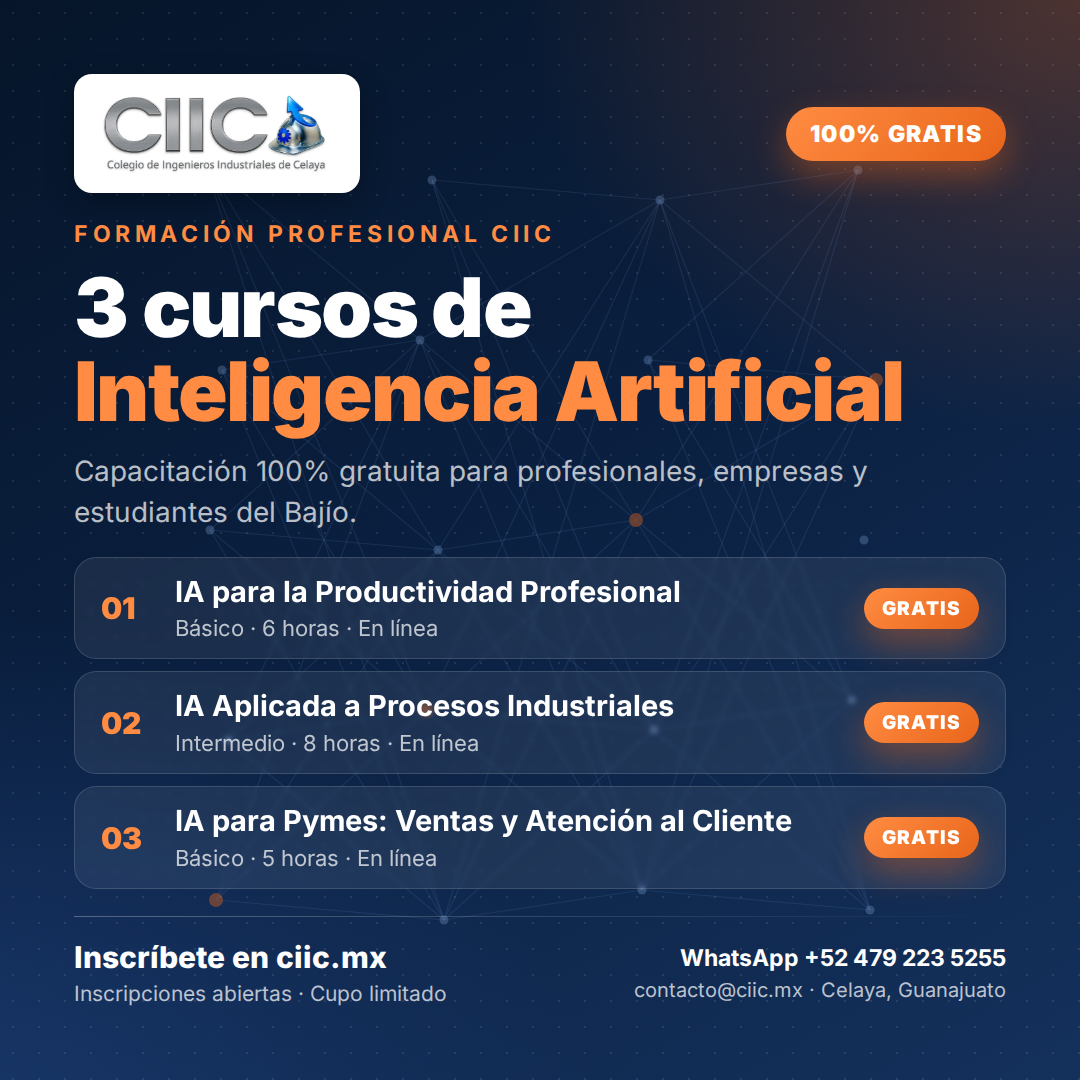
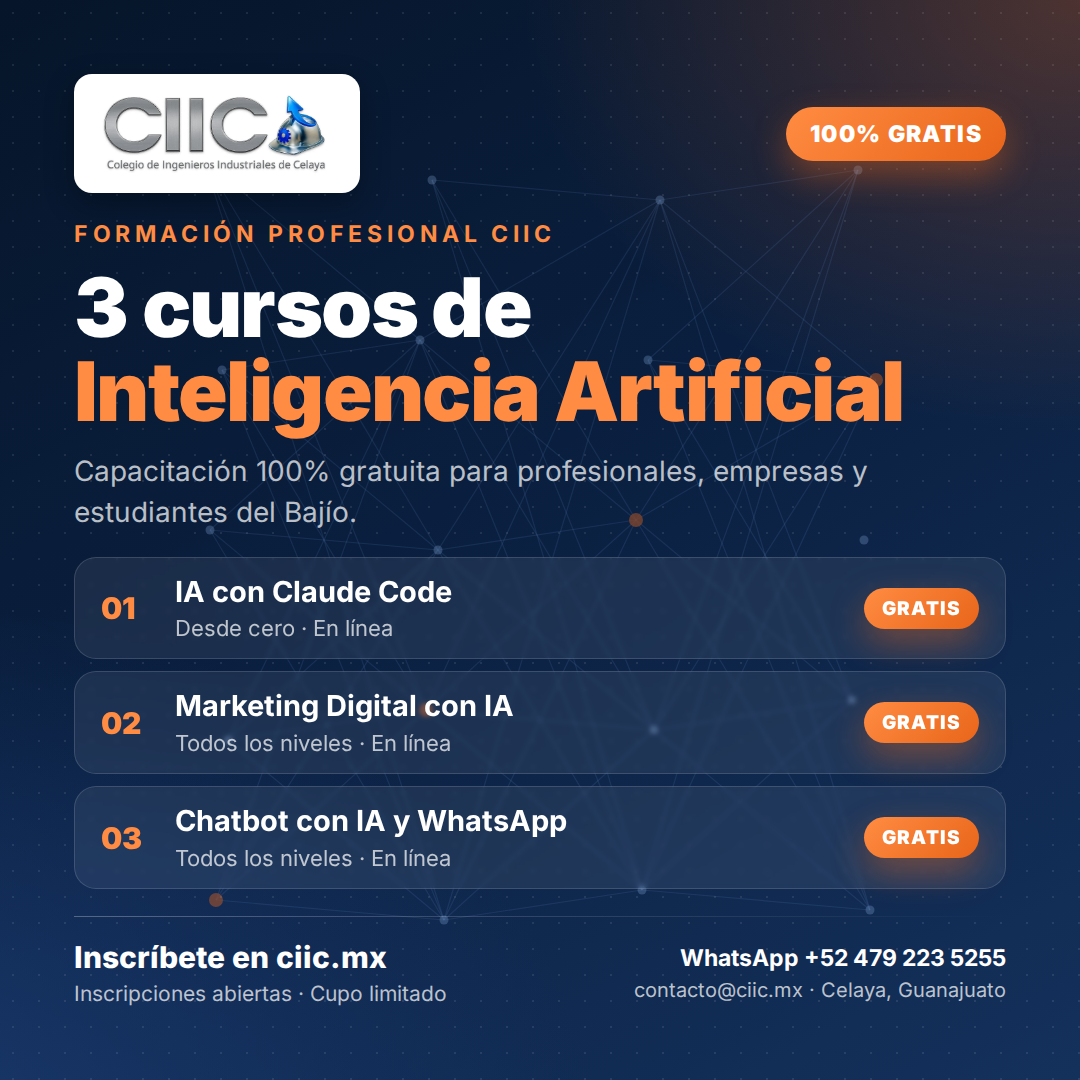
feat(promo): usar los nombres reales de los cursos y agregar prompts de video
- courses.mjs: titulos definitivos de los tres cursos gratuitos de IA, con
  titulo corto para los listados y duracion vacia mientras no este definida
- generate.mjs: omite los campos vacios en los metadatos y ajusta el cuerpo
  del titulo cuando ocupa tres lineas
- prompts-video.md: guion en cinco clips de ocho segundos para generar un
  spot con presentador realista, con bloque de personaje reutilizable,
  prompt negativo y escenarios alternativos

Claude-Session: https://claude.ai/code/session_01CBe4QPccBFTXzonB63kjgr

Changed region(s): [[0.1528, 0.7333, 0.7333, 0.825], [0.1833, 0.5194, 0.6417, 0.6111], [0.1528, 0.6417, 0.6417, 0.7028]]

diff --git a/scripts/promo/prompts-video.md b/scripts/promo/prompts-video.md
@@ -1,0 +1,197 @@
+# Prompts para el video promocional (presentador realista)
+
+Spot de ~40 segundos donde un hombre presenta los 3 cursos gratuitos de IA del
+CIIC. Está pensado para generadores con **audio y diálogo nativos** (Google Veo 3,
+Sora 2, Kling 2.5). Si tu herramienta no genera voz (Runway, Luma, Hailuo), usa
+los mismos prompts sin el bloque de diálogo y agrega la locución después.
+
+## Cómo usarlo
+
+- Los modelos generan clips de **8 segundos**. El spot son **5 clips** que se unen
+  en edición.
+- Genera en **9:16** para Reels, TikTok, Stories y estado de WhatsApp; en **16:9**
+  para YouTube y el sitio. Genera cada formato por separado, no recortes.
+- **No pidas texto en pantalla.** Los modelos de video escriben mal. Los rótulos,
+  el logotipo y la pantalla final se ponen en edición, con las imágenes de
+  `public/images/promo/`.
+- Para que sea **el mismo hombre en los 5 clips**: pega el bloque de personaje
+  íntegro en cada prompt, usa la misma semilla (*seed*) y, si tu herramienta lo
+  permite, arranca de una imagen de referencia del primer clip.
+- Si tienes un instructor real, la mejor opción es **imagen a video**: sube su
+  foto y usa estos mismos prompts. Sale más creíble y evita presentar a una
+  persona inexistente como instructor del Colegio.
+
+---
+
+## Bloque de personaje (pégalo en TODOS los clips)
+
+```
+PERSONAJE: Hombre mexicano de 38 años, complexión media, cabello negro corto
+peinado hacia un lado, barba recortada, piel morena clara, mirada segura y
+amable. Viste camisa azul marino de vestir con las mangas dobladas hasta el
+antebrazo, sin corbata, reloj plateado discreto. Aspecto de instructor
+profesional, cercano, no corporativo acartonado.
+
+ESCENARIO: Aula de capacitación moderna con ventanal de piso a techo a la
+izquierda, luz natural suave de mañana entrando en diagonal. Al fondo,
+desenfocado, una pantalla grande encendida con gráficas azules y sillas de
+oficina. Paleta de la escena en azul marino profundo y acentos naranjas cálidos.
+
+CÁMARA: Lente 50 mm, apertura f/2.0, cámara a la altura de los ojos, plano medio
+(de la cintura hacia arriba), fondo desenfocado suave. Movimiento de cámara muy
+lento hacia el sujeto, apenas perceptible, en trípode con cabeza fluida.
+
+ESTILO: Video corporativo realista, calidad cinematográfica 4K, piel con textura
+natural, colorimetría cálida y limpia. Nada de estética de caricatura, nada de
+filtros exagerados.
+
+AUDIO: Voz masculina cálida y clara, acento mexicano neutro, tono cercano y
+convincente, ritmo pausado. Ambiente de oficina muy tenue de fondo. Sin música.
+```
+
+---
+
+## Guion en 5 clips
+
+### Clip 1 — Gancho (0:00 – 0:08)
+
+```
+[BLOQUE DE PERSONAJE]
+
+ACCIÓN: El hombre está de pie frente a la cámara y da un paso corto hacia
+adelante mientras habla. Gesticula con la mano derecha abierta, natural. Sonríe
+ligeramente al terminar la frase. Contacto visual directo con la cámara todo el
+tiempo.
+
+DIÁLOGO (español de México, sincronizado con los labios):
+"¿Cuántas horas pierdes en tareas que la inteligencia artificial ya puede hacer
+por ti?"
+```
+
+### Clip 2 — Curso 01 (0:08 – 0:16)
+
+```
+[BLOQUE DE PERSONAJE]
+
+ACCIÓN: Mismo hombre, misma aula, ahora ligeramente girado hacia la izquierda del
+encuadre. Levanta el dedo índice al decir "primer curso" y luego abre la mano.
+Expresión entusiasta y didáctica.
+
+DIÁLOGO (español de México, sincronizado con los labios):
+"Primer curso: Inteligencia Artificial con Claude Code. Empiezas desde cero y
+terminas automatizando tu trabajo."
+```
+
+### Clip 3 — Curso 02 (0:16 – 0:24)
+
+```
+[BLOQUE DE PERSONAJE]
+
+ACCIÓN: Mismo hombre, misma aula. Camina un paso lateral hacia la derecha
+mientras habla; la cámara lo sigue con una panorámica mínima. Gesto de las dos
+manos abriéndose al mencionar marca, contenido y producto.
+
+DIÁLOGO (español de México, sincronizado con los labios):
+"Segundo: Marketing Digital con Inteligencia Artificial. Diseña tu marca, tu
+contenido y tu producto."
+```
+
+### Clip 4 — Curso 03 (0:24 – 0:32)
+
+```
+[BLOQUE DE PERSONAJE]
+
+ACCIÓN: Mismo hombre, misma aula, de vuelta al centro del encuadre. Sostiene un
+teléfono celular en la mano izquierda a la altura del pecho y lo señala con la
+derecha, sin mirar la pantalla. Tono resolutivo.
+
+DIÁLOGO (español de México, sincronizado con los labios):
+"Y tercero: crea tu chatbot con inteligencia artificial y WhatsApp, para atender
+clientes las veinticuatro horas."
+```
+
+### Clip 5 — Cierre y llamado a la acción (0:32 – 0:40)
+
+```
+[BLOQUE DE PERSONAJE]
+
+ACCIÓN: Mismo hombre, misma aula. Plano medio corto, la cámara se acerca muy
+lentamente. Junta las manos al frente, asiente una vez y sonríe con seguridad al
+terminar. Mantiene la mirada en la cámara dos segundos después de la última
+palabra, sin moverse, para dejar espacio al rótulo final.
+
+DIÁLOGO (español de México, sincronizado con los labios):
+"Tres cursos, cien por ciento gratuitos. Inscríbete en ciic punto eme equis.
+Cupo limitado."
+```
+
+> En edición: sobre esos dos segundos finales, monta `ciic-ia-anuncio-1x1.png`
+> (o `ciic-ia-historia-9x16.png` para vertical) como pantalla de cierre.
+
+---
+
+## Versión de 8 segundos (un solo clip para Reels)
+
+```
+[BLOQUE DE PERSONAJE]
+
+ACCIÓN: El hombre mira a cámara, da un paso adelante y habla con energía
+contenida, gesticulando con la mano derecha. Sonríe al final y asiente una vez.
+
+DIÁLOGO (español de México, sincronizado con los labios):
+"Tres cursos de inteligencia artificial, totalmente gratis, en el Colegio de
+Ingenieros Industriales de Celaya. Inscríbete en ciic punto eme equis."
+```
+
+---
+
+## Prompt negativo (para las herramientas que lo aceptan)
+
+```
+texto en pantalla, subtítulos, letreros, logotipos, marcas de agua, manos
+deformes, dedos de más, rostro distorsionado, ojos asimétricos, dientes
+irregulares, labios desincronizados, movimiento de cámara brusco, zoom rápido,
+cambio de vestuario, cambio de escenario, saturación excesiva, apariencia de
+caricatura, animación 3D, cámara lenta, distorsión de audio, acento español de
+España
+```
+
+---
+
+## Escenarios alternativos
+
+Cambia solo el bloque `ESCENARIO:` y deja lo demás igual.
+
+**Planta industrial** (el más alineado con el CIIC):
+
+```
+ESCENARIO: Nave industrial moderna y limpia, iluminación LED fría combinada con
+luz natural de tragaluces. Al fondo, muy desenfocadas, líneas de producción y
+estructuras metálicas. El hombre lleva además un chaleco de seguridad naranja
+sobre la camisa azul marino.
+```
+
+**Oficina con vista a la ciudad**:
+
+```
+ESCENARIO: Oficina moderna en un piso alto, ventanal amplio con la ciudad
+desenfocada al fondo en hora dorada. Escritorio de madera clara con una laptop
+abierta fuera de foco en primer plano.
+```
+
+---
+
+## Notas prácticas
+
+- **Pronunciación**: escribe `ciic punto eme equis` en lugar de `ciic.mx`, y los
+  números con letra (`veinticuatro`, no `24`). Si el modelo pronuncia "Claude" a
+  la francesa o en inglés y no te convence, escribe `Clod` en el diálogo: se lee
+  igual y suena natural en español.
+- **Duración del diálogo**: 15–18 palabras por clip de 8 segundos. Si te pasas, el
+  modelo acelera la voz y se nota.
+- **Continuidad**: si entre clip y clip cambia la cara o la ropa, fija la semilla,
+  repite el bloque de personaje palabra por palabra y genera 3–4 variantes de cada
+  clip para escoger las que empaten.
+- **Transparencia**: si el presentador es generado con IA, conviene no presentarlo
+  como un instructor real del Colegio. Un rótulo de "presentador generado con IA"
+  o usar a una persona real del CIIC resuelve el punto.
